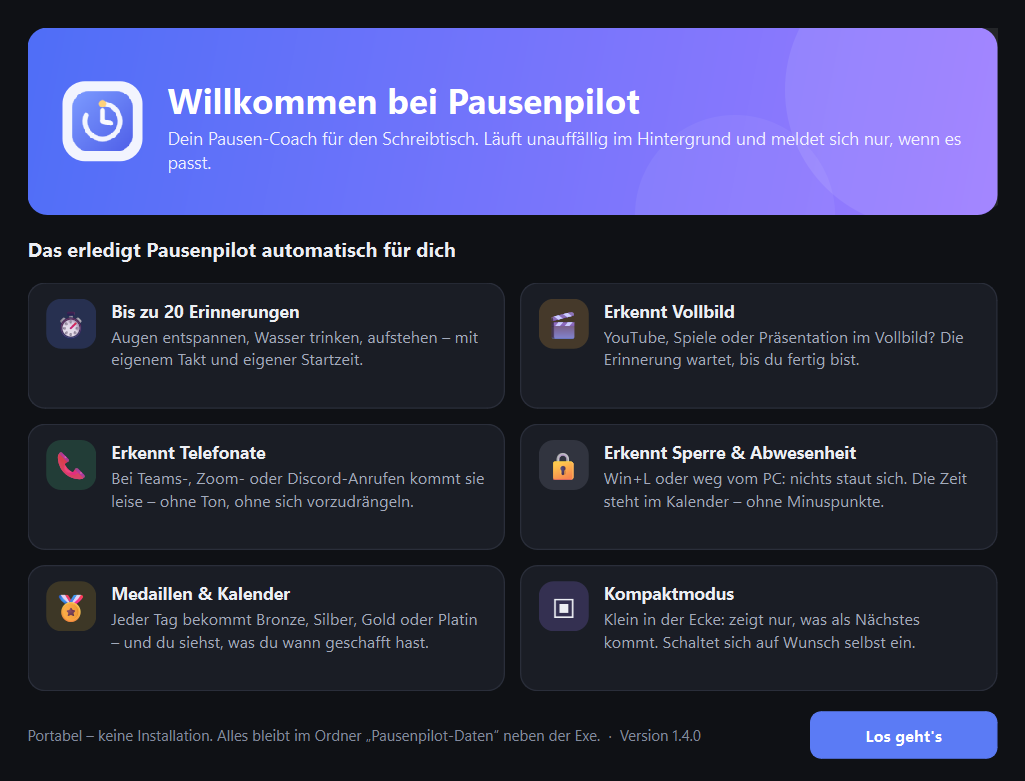
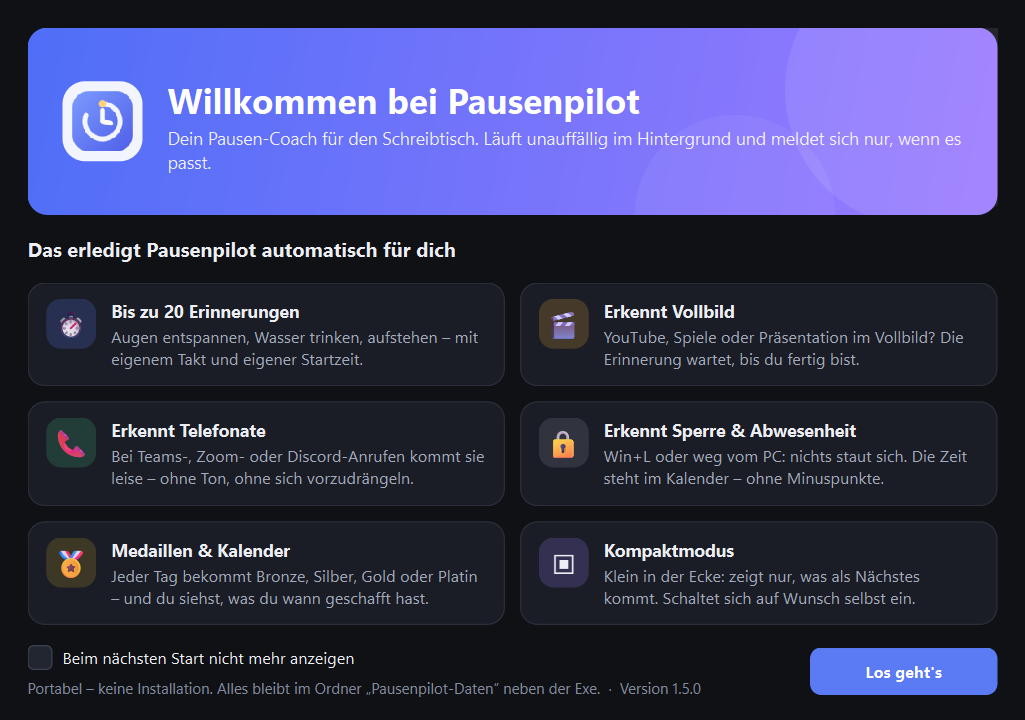
Pausenpilot 1.5.0: Zeitplan aktualisieren, Willkommens-Haken
- Neuer Knopf „Zeitplan aktualisieren“ unten rechts auf der Hauptseite:
  wird aktiv, sobald Startzeiten, Intervalle oder aktive Zeiten geändert
  wurden, und richtet alle wartenden Erinnerungen schon für heute neu aus
- Willkommens-Bildschirm mit Haken „Beim nächsten Start nicht mehr anzeigen“

diff --git a/pausenpilot/main_window.py b/pausenpilot/main_window.py
@@ -186,6 +186,7 @@ class TimersPage(QWidget):
     pause_requested = Signal(int)      # Minuten; -1 = bis morgen
     resume_requested = Signal()
     compact_requested = Signal()
+    replan_requested = Signal()
 
     def __init__(self, parent=None):
         super().__init__(parent)
@@ -311,10 +312,37 @@ class TimersPage(QWidget):
         root.addWidget(self.empty)
         self.hint = label("Tipp: Unterschiedliche Startzeiten verhindern, dass alle Erinnerungen "
                           "gleichzeitig kommen.", "faint", wrap=True)
-        root.addWidget(self.hint)
+        foot = QHBoxLayout()
+        foot.setSpacing(12)
+        foot.addWidget(self.hint, 1)
+        self.replan_btn = QPushButton("  Zeitplan aktualisieren")
+        self.replan_btn.setObjectName("primary")
+        self.replan_btn.setCursor(Qt.PointingHandCursor)
+        self.replan_btn.setIconSize(QSize(16, 16))
+        self.replan_btn.setEnabled(False)
+        self.replan_btn.setToolTip(
+            "Hast du Startzeiten, Intervalle oder aktive Zeiten geändert, richtet dieser Knopf alle\n"
+            "Erinnerungen neu danach aus – schon für heute, ab jetzt.\n"
+            "Offene und bewusst verschobene Erinnerungen bleiben, wie sie sind.")
+        self.replan_btn.clicked.connect(self.replan_requested.emit)
+        foot.addWidget(self.replan_btn, 0, Qt.AlignBottom)
+        root.addLayout(foot)
         root.addStretch(1)
+        self._replan_state = None
+        self._set_replan(False)
         self.cards: dict[str, TimerCard] = {}
         self._paused = False
+
+    def _set_replan(self, on: bool):
+        key = (on, theme.P.get("is_dark"))
+        if key == self._replan_state:
+            return
+        self._replan_state = key
+        self.replan_btn.setEnabled(on)
+        self.replan_btn.setIcon(line_icon("refresh", theme.P["accent_text"] if on else theme.P["faint"], 16))
+        self.hint.setText("Zeiten geändert – mit „Zeitplan aktualisieren“ gilt das neue Raster schon für heute."
+                          if on else "Tipp: Unterschiedliche Startzeiten verhindern, dass alle Erinnerungen "
+                                     "gleichzeitig kommen.")
 
     def _pause_clicked(self):
         if self._paused:
@@ -382,6 +410,7 @@ class TimersPage(QWidget):
                 if w else "Heute keine aktiven Zeiten")
         self.subtitle.setText(when)
         self.timeline.set_state(sched, entries, pauses, now, aways)
+        self._set_replan(bool(getattr(sched, "plan_dirty", False)) and sched.paused_until is None)
         self._update_medal(summary)
         if getattr(self, "_legend_dark", None) != theme.P.get("is_dark"):
             self._legend_dark = theme.P.get("is_dark")

diff --git a/pausenpilot/schedule.py b/pausenpilot/schedule.py
@@ -124,7 +124,8 @@ class Scheduler:
     pause_open: bool = False             # Pause ohne festes Ende (läuft bis „Pause beenden“, spätestens Mitternacht)
     ended_pause: tuple | None = None     # (von, bis) einer Pause, die endete, während das Tool zu war
     away_since: datetime | None = None
-    away_reason: str = ""                # "lock" (gesperrt) | "idle" (keine Eingabe) – solange away_since gesetzt
+    plan_dirty: bool = False             # Zeiten wurden geändert → Zeitplan neu ausrichten möglich
+    away_reason: str = ""              # "lock" (gesperrt) | "idle" (keine Eingabe) – solange away_since gesetzt
     away_missed: list = field(default_factory=list)   # [(tid, Termin)] – während der Abwesenheit fällig gewesen
     last_tick: datetime | None = None
     hold_until: datetime | None = None   # kurze Atempause zwischen zwei Erinnerungen
@@ -435,6 +436,8 @@ class Scheduler:
         old_days = getattr(self, "_days_snapshot", None) or _days_key(self.settings)
         new_days = _days_key(settings)
         changed_days = {i for i in range(7) if old_days[i] != new_days[i]}
+        if changed_days or changed_schedule:
+            self.plan_dirty = True       # Knopf „Zeitplan aktualisieren“ freischalten
         old_ids = set(self.rt)
         self.timers = timers
         self.settings = settings
@@ -478,6 +481,29 @@ class Scheduler:
                         r.planned = fresh
         self._days_snapshot = _days_key(settings)
         return closed
+
+    def realign(self, now: datetime) -> int:
+        """„Zeitplan aktualisieren“: alle wartenden Erinnerungen wieder an ihr Raster legen
+        (Startzeit + Vielfache des Intervalls, innerhalb der aktiven Zeit) – ab jetzt, schon für heute.
+        Offene/laufende Erinnerungen und bewusst verschobene bleiben unverändert. Gibt die Anzahl
+        geänderter Termine zurück."""
+        n = 0
+        for t in self.timers:
+            r = self.rt.get(t.id)
+            if not r or not t.enabled or t.id == self.active or r.snoozes:
+                continue
+            if r.phase not in (PHASE_WAITING, PHASE_QUEUED):
+                continue
+            fresh = next_slot(t, self.settings, now)
+            if t.id in self.queue:
+                self.queue.remove(t.id)
+            r.phase = PHASE_WAITING
+            if fresh != r.due:
+                n += 1
+            r.due = fresh
+            r.planned = fresh
+        self.plan_dirty = False
+        return n
 
     def next_overall(self) -> tuple[TimerConfig, datetime] | None:
         best = None

diff --git a/pausenpilot/app.py b/pausenpilot/app.py
@@ -75,6 +75,7 @@ class Controller(QObject):
         self.timers_page.pause_requested.connect(self.pause)
         self.timers_page.resume_requested.connect(self.resume)
         self.timers_page.compact_requested.connect(self.enter_compact)
+        self.timers_page.replan_requested.connect(self.replan)
         self.settings_page.changed.connect(self.settings_changed)
         self.settings_page.theme_changed.connect(self.apply_theme_live)
         self.settings_page.autostart_changed.connect(self.set_autostart)
@@ -133,14 +134,15 @@ class Controller(QObject):
         """Willkommens-Bildschirm mit den wichtigsten Funktionen (beim ersten Start automatisch)."""
         from .welcome import WelcomeDialog
         parent = self.window if self.window.isVisible() else None
-        dlg = WelcomeDialog(parent)
+        dlg = WelcomeDialog(parent, self.settings.welcome_shown)
         dlg.winId()
         winutil.set_dark_titlebar(int(dlg.winId()), bool(theme.P.get("is_dark")))
         if parent is None:
             dlg.setWindowFlag(Qt.WindowStaysOnTopHint, True)
         dlg.exec()
-        if not self.settings.welcome_shown:
-            self.settings.welcome_shown = True
+        # Erscheint bei jedem Start, bis „Beim nächsten Start nicht mehr anzeigen“ gesetzt ist
+        if dlg.dont_show.isChecked() != self.settings.welcome_shown:
+            self.settings.welcome_shown = dlg.dont_show.isChecked()
             self.save_config()
 
     # ------------------------------------------------------------------ Theme
@@ -615,6 +617,16 @@ class Controller(QObject):
         self.save_config()
         self.save_state()
         self.tick()
+
+    def replan(self):
+        """Knopf „Zeitplan aktualisieren“: Raster aus Startzeit/Intervall/aktiver Zeit ab jetzt anwenden."""
+        n = self.sched.realign(datetime.now())
+        self.save_state()
+        self.tick()
+        hint = self.timers_page.hint
+        hint.setText(f"Zeitplan aktualisiert · {n} {'Erinnerung' if n == 1 else 'Erinnerungen'} neu ausgerichtet."
+                     if n else "Zeitplan aktualisiert · alles war schon passend.")
+        QTimer.singleShot(6000, lambda: (self.timers_page.__setattr__("_replan_state", None), self.tick()))
 
     # ------------------------------------------------------------------ Einstellungen
     def settings_changed(self):

diff --git a/pausenpilot/welcome.py b/pausenpilot/welcome.py
@@ -3,7 +3,7 @@ from __future__ import annotations
 
 from PySide6.QtCore import QRectF, QSize, Qt
 from PySide6.QtGui import QColor, QFont, QLinearGradient, QPainter, QPainterPath
-from PySide6.QtWidgets import (QDialog, QFrame, QGridLayout, QHBoxLayout, QLabel, QPushButton, QSizePolicy,
+from PySide6.QtWidgets import (QCheckBox, QDialog, QFrame, QGridLayout, QHBoxLayout, QLabel, QPushButton, QSizePolicy,
                                QVBoxLayout, QWidget)
 
 from . import APP_NAME, APP_VERSION, theme
@@ -90,7 +90,7 @@ class FeatureTile(QFrame):
 
 
 class WelcomeDialog(QDialog):
-    def __init__(self, parent=None):
+    def __init__(self, parent=None, dont_show: bool = False):
         super().__init__(parent)
         self.setWindowTitle(f"Willkommen bei {APP_NAME}")
         self.setWindowIcon(app_icon())
@@ -111,11 +111,19 @@ class WelcomeDialog(QDialog):
 
         foot = QHBoxLayout()
         foot.setSpacing(12)
+        left = QVBoxLayout()
+        left.setSpacing(6)
+        self.dont_show = QCheckBox("Beim nächsten Start nicht mehr anzeigen")
+        self.dont_show.setCursor(Qt.PointingHandCursor)
+        self.dont_show.setChecked(dont_show)
+        self.dont_show.setToolTip("Den Überblick findest du jederzeit wieder unter Einstellungen.")
+        left.addWidget(self.dont_show)
         info = QLabel(f"Portabel – keine Installation. Alles bleibt im Ordner „Pausenpilot-Daten“ "
                       f"neben der Exe.  ·  Version {APP_VERSION}")
         info.setObjectName("faint")
         info.setWordWrap(True)
-        foot.addWidget(info, 1)
+        left.addWidget(info)
+        foot.addLayout(left, 1)
         go = QPushButton("Los geht's")
         go.setObjectName("primary")
         go.setCursor(Qt.PointingHandCursor)

diff --git a/tests/test_schedule.py b/tests/test_schedule.py
@@ -182,6 +182,31 @@ def test_idle_away_reason_and_sleep_gap_event():
     assert sl and sl[0][3] == "sleep" and sl[0][1] == at(10, 30) and sl[0][4], ev
 
 
+def test_realign_puts_timers_back_on_grid():
+    a, b, c = T(20, "08:00"), T(60, "08:10"), T(60, "08:50")
+    sc = make([a, b, c], at(9, 59))
+    assert not sc.plan_dirty
+    sc.rt[b.id].due = at(10, 13)         # nach „Erledigt“ um 9:13 ab dann gerechnet (nicht im Raster)
+    sc.rt[c.id].due = at(10, 55)
+    sc.rt[c.id].snoozes = 1              # bewusst verschoben → bleibt
+    # Startzeit von a ändern → Zeitplan „veraltet“
+    a2 = TimerConfig(name="t", interval_min=20, first_start="08:05", duration_sec=20)
+    a2.id = a.id
+    sc.apply_config([a2, b, c], sc.settings, at(9, 59), {a.id})
+    assert sc.plan_dirty and sc.rt[a.id].due == at(10, 5)
+    n = sc.realign(at(10, 1))
+    assert sc.rt[a.id].due == at(10, 5) and sc.rt[b.id].due == at(10, 10) and sc.rt[c.id].due == at(10, 55)
+    assert n == 1 and not sc.plan_dirty
+
+
+def test_changed_day_window_marks_plan_dirty():
+    sc = make([T(20)], at(9))
+    st = Settings()
+    st.days[0] = DayWindow(True, "09:30", "17:00")
+    sc.apply_config(sc.timers, st, at(9), set())
+    assert sc.plan_dirty
+
+
 def test_sleep_gap_reschedules():
     a = T(20)
     sc = make([a], at(7, 50))

diff --git a/pausenpilot/widgets.py b/pausenpilot/widgets.py
@@ -248,6 +248,17 @@ def paint_line_icon(p: QPainter, name: str, r: QRectF, color: QColor, width: flo
         p.drawLine(QPointF(box.left(), y + h * .42), QPointF(box.right(), y + h * .42))
         p.drawLine(QPointF(x + w * .34, y + h * .08), QPointF(x + w * .34, y + h * .28))
         p.drawLine(QPointF(x + w * .66, y + h * .08), QPointF(x + w * .66, y + h * .28))
+    elif name == "refresh":
+        arc = r.adjusted(w * .14, h * .14, -w * .14, -h * .14)
+        p.drawArc(arc, 60 * 16, 270 * 16)
+        # Pfeilspitze am Ende des Bogens (oben rechts)
+        import math
+        a = math.radians(60)
+        ex = arc.center().x() + arc.width() / 2 * math.cos(a)
+        ey = arc.center().y() - arc.height() / 2 * math.sin(a)
+        s = w * .2
+        p.drawLine(QPointF(ex, ey), QPointF(ex - s * 1.05, ey - s * .15))
+        p.drawLine(QPointF(ex, ey), QPointF(ex + s * .2, ey - s * 1.0))
     elif name == "sliders":
         for i, kx in enumerate((.32, .68, .45)):
             yy = y + h * (.22 + .28 * i)

diff --git a/pausenpilot/__init__.py b/pausenpilot/__init__.py
@@ -1,2 +1,2 @@
 APP_NAME = "Pausenpilot"
-APP_VERSION = "1.4.0"
+APP_VERSION = "1.5.0"
